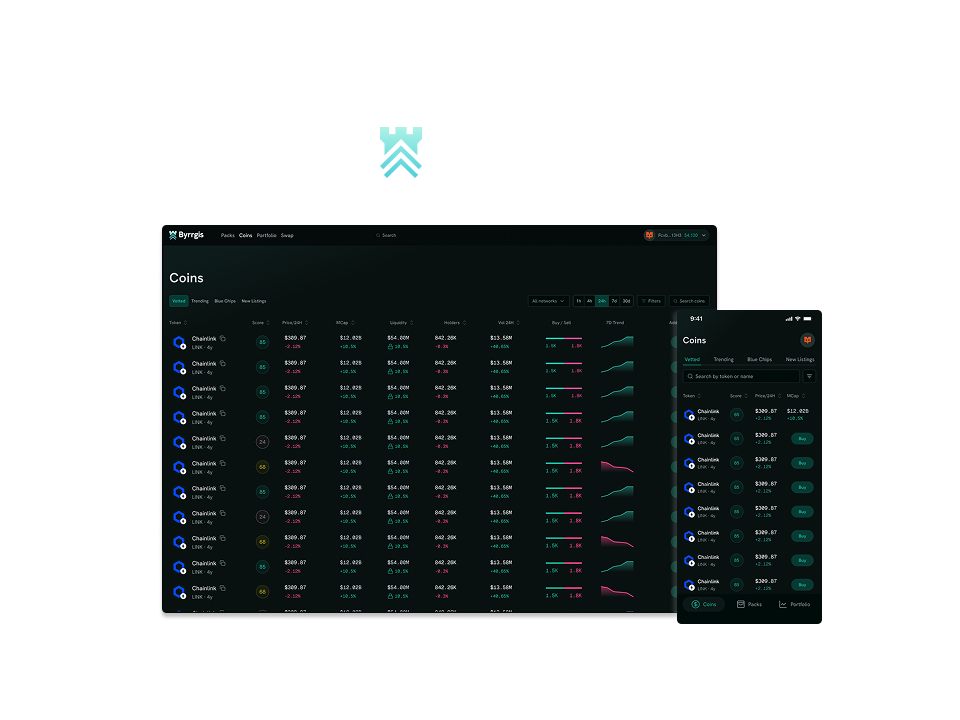
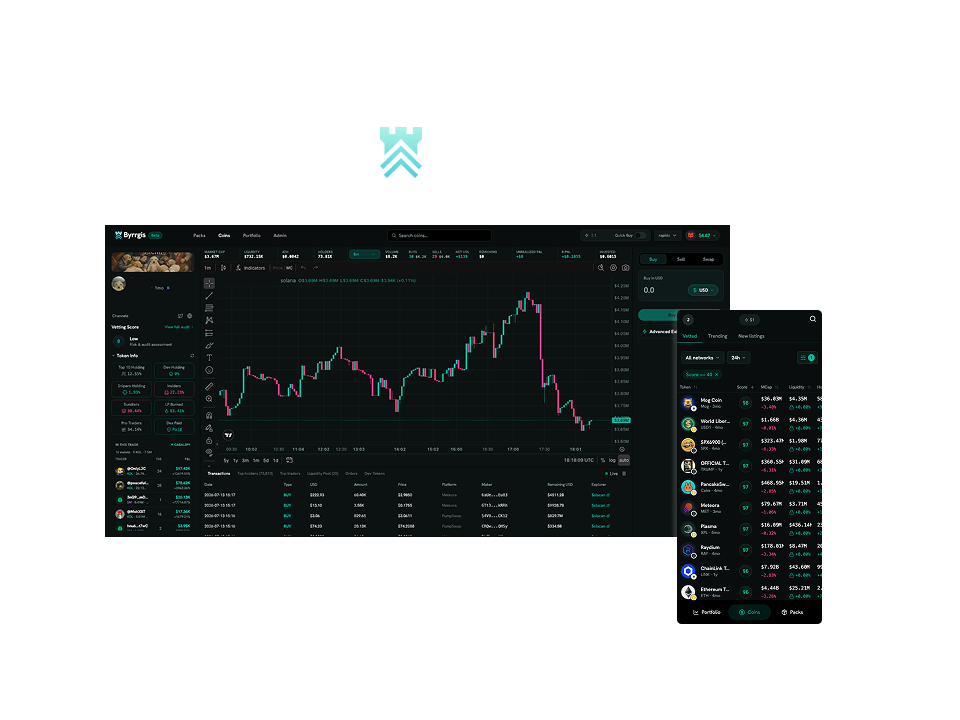
feat: add Review schema, dateModified freshness signal, and update Byrrgis case study image
Add Review structured data to case studies that have a Clutch quote
(Byrrgis, Blockus, Drata, Rarible), mapping the existing clutchReview
fields (text, reviewer, stars, url) into schema.org Review/Rating, so
the testimonial is machine-readable instead of plain text.

Add an optional updatedAt field to ServicePageData, surfaced as
dateModified in each service page's Service schema, giving AI/search
crawlers a freshness signal. Only set on the 8 pages actually edited
in the July 15 merge (smart contract development + the 7 industry
pages): no invented dates on untouched pages.

Restore the updated Byrrgis case study screenshot (trading chart with
vetting panel) that was made in an earlier session but never
committed.

diff --git a/src/data/services.ts b/src/data/services.ts
@@ -10,6 +10,8 @@ export interface ServiceStep { number: string; title: string; description: strin
 export interface ServicePageData {
   /** SEO */
   seo: { title: string; description: string };
+  /** Last real content update, used as dateModified in the page's Service schema. Format: "YYYY-MM-DD". Only set when the page was actually edited. */
+  updatedAt?: string;
   /** Hero */
   eyebrow: string;
   title: string;
@@ -282,6 +284,7 @@ export const smartContractData: ServicePageData = {
     title: "Smart Contract Development, Audit-Ready & Production-Grade",
     description: "Audited, gas-optimized smart contracts on Ethereum, Aptos, Solana and other ecosystems. From token standards to complex DeFi protocols.",
   },
+  updatedAt: "2026-07-15",
   eyebrow: "Sub-service · Blockchain",
   title: "Smart Contract Development",
   description: "Secure, gas-efficient smart contracts engineered to scale. We design, build, test, and audit production contracts for token issuers, DeFi protocols, marketplaces, and DAOs.",
@@ -419,6 +422,7 @@ export const defiFinanceData: ServicePageData = {
     title: "DeFi Development Services for Decentralized Finance | SpaceDev",
     description: "SpaceDev builds production-grade DeFi applications, smart contract systems, and tokenized financial infrastructure. Full DeFi development lifecycle from protocol architecture to post-launch security.",
   },
+  updatedAt: "2026-07-15",
   eyebrow: "Industry · Finance and Fintech",
   title: "DeFi Development Services for the Next Generation of Decentralized Finance",
   description: "SpaceDev builds production-grade DeFi applications, smart contract systems, and tokenized financial infrastructure for startups and enterprises ready to operate at the frontier of web3 finance. From protocol architecture to post-launch security, we cover the full DeFi development lifecycle.",
@@ -454,6 +458,7 @@ export const supplyChainData: ServicePageData = {
     title: "Blockchain Solutions for Logistics and Supply Chain | SpaceDev",
     description: "Blockchain-based supply chain traceability, freight payment automation, product provenance, cold chain monitoring, and trade document digitization, built by SpaceDev for logistics operators, 3PLs, and manufacturers.",
   },
+  updatedAt: "2026-07-15",
   eyebrow: "Industry · Supply Chain & Logistics",
   title: "Blockchain Solutions for Logistics, Freight, and Supply Chain Operations",
   description: "Supply chains break at the handoffs, where data moves between carriers, customs authorities, warehouses, and buyers. SpaceDev builds blockchain-based logistics and supply chain platforms that replace fragmented multi-party coordination with shared, tamper-proof infrastructure built for production.",
@@ -488,6 +493,7 @@ export const healthcareData: ServicePageData = {
     title: "Blockchain Development for the Healthcare Industry | SpaceDev",
     description: "HIPAA-aligned blockchain solutions for health records, claims automation, pharmaceutical tracking, and clinical data interoperability, built by SpaceDev for healthcare companies, payers, and life sciences.",
   },
+  updatedAt: "2026-07-15",
   eyebrow: "Industry · Healthcare",
   title: "Blockchain Development for the Healthcare Industry",
   description: "SpaceDev builds blockchain solutions for healthcare companies that need to secure patient data, automate clinical workflows, and create interoperable health records across providers, payers, and systems, without compromising compliance or performance.",
@@ -522,6 +528,7 @@ export const energyData: ServicePageData = {
     title: "Blockchain Development for the Energy Sector | SpaceDev",
     description: "Custom blockchain infrastructure for energy trading platforms, REC tokenization, carbon credit tracking, and smart contract automation, built by SpaceDev for energy companies, utilities, and renewable energy developers.",
   },
+  updatedAt: "2026-07-15",
   eyebrow: "Industry · Energy",
   title: "Blockchain Development for the Energy Sector",
   titleHtml: "Blockchain Development for<br>the Energy Sector",
@@ -557,6 +564,7 @@ export const stablecoinData: ServicePageData = {
     title: "Custom Stablecoin Development for Payments, DeFi, and Enterprise Settlement | SpaceDev",
     description: "SpaceDev builds custom stablecoin solutions for fintech companies, DeFi protocols, payment platforms, and enterprises: fiat-backed, crypto-collateralized, algorithmic, and hybrid stablecoin infrastructure from architecture through production launch.",
   },
+  updatedAt: "2026-07-15",
   eyebrow: "DeFi · Stablecoins",
   title: "Custom Stablecoin Development for Payments, DeFi, and Enterprise Settlement",
   description: "A stablecoin is only as good as the system built around it. SpaceDev builds custom stablecoin solutions for fintech companies, DeFi protocols, payment platforms, and enterprises that need programmable, stable digital currency infrastructure: from initial architecture through production launch.",
@@ -908,6 +916,7 @@ export const realEstateData: ServicePageData = {
     title: "Blockchain Development for Real Estate | PropTech & Web3 Solutions | SpaceDev",
     description: "Blockchain development services for real estate companies: smart contracts, tokenization platforms, property registries, and DeFi mortgage solutions. Let's build.",
   },
+  updatedAt: "2026-07-15",
   eyebrow: "Industry · Real Estate",
   title: "Blockchain Development Services for Real Estate Companies",
   description: "SpaceDev builds blockchain solutions for real estate firms, proptech platforms, and investment vehicles that need more than a pilot. We cover the full stack, from smart contract architecture to investor-facing platforms, with a delivery model built around your business constraints.",
@@ -941,6 +950,7 @@ export const complianceWeb3Data: ServicePageData = {
     title: "Web3 Compliance Development Services | KYC, AML & Regulatory Infrastructure | SpaceDev",
     description: "Build compliant Web3 products from day one. SpaceDev develops on-chain KYC/AML, transfer restriction engines, decentralized identity, and regulatory-ready smart contracts.",
   },
+  updatedAt: "2026-07-15",
   eyebrow: "Industry · Compliance",
   title: "Web3 Compliance Development Services for Regulated Blockchain Products",
   description: "SpaceDev builds the technical compliance infrastructure that Web3 projects need to operate in regulated markets. KYC/AML integrations, on-chain transfer restrictions, decentralized identity systems, and regulatory-ready smart contracts, engineered from day one, not retrofitted after launch.",
